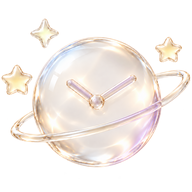
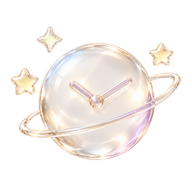
Add files via upload

Changed region(s): [[0.0, 0.0938, 1.0, 0.875], [0.3438, 0.4062, 0.625, 0.5938]]

diff --git a/index.html b/index.html
@@ -3,5 +3,5 @@
 <body><header><button id="calendar-open" aria-label="월간 캘린더"><svg viewBox="0 0 24 24" width="22" height="22" fill="none" stroke="currentColor" stroke-width="1.5" aria-hidden="true"><rect x="3" y="5" width="18" height="16" rx="3"/><path d="M7 3v4M17 3v4M3 10h18"/><path d="M7 14h2M11 14h2M15 14h2M7 17h2M11 17h2"/></svg></button><div class="date-nav"><button id="previous" aria-label="이전 날짜"><svg viewBox="0 0 24 24" fill="none" stroke="currentColor" stroke-width="1.8" stroke-linecap="round" stroke-linejoin="round" aria-hidden="true" focusable="false"><path d="m15 5-7 7 7 7"/></svg></button><button id="date-label"></button><input id="date" type="date" aria-label="날짜 선택"><button id="next" aria-label="다음 날짜"><svg viewBox="0 0 24 24" fill="none" stroke="currentColor" stroke-width="1.8" stroke-linecap="round" stroke-linejoin="round" aria-hidden="true" focusable="false"><path d="m9 5 7 7-7 7"/></svg></button></div><div class="header-actions"><button id="today">오늘</button></div></header><nav class="view-tabs" aria-label="화면 보기" data-view="both"><button id="view-both" class="selected" aria-pressed="true"><svg viewBox="0 0 24 24" fill="none" stroke="currentColor" stroke-width="1.5" aria-hidden="true"><rect x="3" y="4" width="18" height="16" rx="2"/><path d="M11 4v16"/></svg>전체</button><button id="view-tasks" aria-pressed="false"><svg viewBox="0 0 24 24" fill="none" stroke="currentColor" stroke-width="1.5" aria-hidden="true"><path d="m3 7 2 2 3-4M11 7h10M3 14h5M11 14h10M3 20h5M11 20h10"/></svg>할 일</button></nav>
 <main><section class="plan" aria-label="하루 시간표"><div class="plan-title">시간표<button id="add-event" aria-label="일정 추가">＋</button></div><div class="ruler"><div></div><div class="minute-labels"><span>10</span><span>20</span><span>30</span><span>40</span><span>50</span><span>60</span></div></div><div id="timeline"></div></section><section class="study"><div class="tasks-heading"><div class="task-period" aria-label="할 일 보기 기간"><button type="button" id="period-day" aria-pressed="true">일간</button><button type="button" id="period-week" aria-pressed="false">주간</button></div><span>할 일</span><button id="new-group" aria-label="할 일 추가">＋ 추가</button></div><div id="week-overview" hidden><div id="week-days"></div><div id="week-selected-date"></div></div><div class="task-scroll"><div id="groups"></div><button class="add-group" id="group-add">＋ 카테고리 추가</button></div></section>
 </main>
-<dialog id="editor"><form id="form" novalidate><div class="dialog-head"><h2 id="editor-title">할 일 추가</h2><button type="button" id="cancel" aria-label="닫기"><svg viewBox="0 0 24 24" fill="none" stroke="currentColor" stroke-width="2" stroke-linecap="round" aria-hidden="true" focusable="false"><path d="m6 6 12 12M18 6 6 18"/></svg></button></div><label>할 일<input id="task" required maxlength="100"></label><fieldset class="category-field"><legend>카테고리</legend><div id="category-picks"></div><input id="category" type="hidden"></fieldset><label class="inline"><input type="checkbox" id="scheduled"> 시간 설정</label><div class="time-fields"><label>시작<input type="time" id="start" value="15:00"></label><label>종료 (선택)<input type="time" id="end"></label></div><div id="start-picker"><div class="start-picker-heading"><p class="picker-title">시작시간</p><div id="period-picks" class="picker-row"></div></div><div id="hour-picks" class="picker-row hour-picks"></div><div id="minute-picks" class="picker-row"></div><p id="picker-hint"></p></div><div id="time-tools"><div class="time-target"><span>종료시간</span><span id="duration"></span></div><div class="time-increments"><button type="button" data-minutes="1">+1분</button><button type="button" data-minutes="5">+5분</button><button type="button" data-minutes="30">+30분</button><button type="button" data-minutes="60">+1시간</button></div><div class="time-increments time-decrements"><button type="button" data-minutes="-1">−1분</button><button type="button" data-minutes="-5">−5분</button><button type="button" data-minutes="-30">−30분</button><button type="button" data-minutes="-60">−1시간</button></div></div><label class="inline"><input type="checkbox" id="repeating"> 반복 설정</label><div id="repeat-tools" hidden><div class="repeat-heading"><span>반복</span><div class="repeat-toggle"><button type="button" id="repeat-daily" aria-pressed="false">매일</button><button type="button" id="repeat-weekly" aria-pressed="false">매주</button><button type="button" id="repeat-monthly" aria-pressed="false">매달</button></div></div><div id="repeat-days" hidden><button type="button" data-day="1" aria-pressed="false">월</button><button type="button" data-day="2" aria-pressed="false">화</button><button type="button" data-day="3" aria-pressed="false">수</button><button type="button" data-day="4" aria-pressed="false">목</button><button type="button" data-day="5" aria-pressed="false">금</button><button type="button" data-day="6" aria-pressed="false">토</button><button type="button" data-day="0" aria-pressed="false">일</button></div><div id="repeat-month-day-row" hidden><span>날짜</span><div>매월 <input id="repeat-month-day" type="hidden" value="1"><button id="repeat-month-day-button" type="button" aria-label="매월 반복 날짜">1일</button></div></div><div class="repeat-ending"><span>종료</span><input id="repeat-ending" type="hidden" value=""><div class="repeat-toggle"><button type="button" id="repeat-never" aria-pressed="false" disabled>계속 반복</button><button type="button" id="repeat-end-date" aria-pressed="false" disabled>날짜 지정</button></div></div><input id="repeat-until" type="hidden"><button id="repeat-date-button" type="button" aria-label="반복 종료일 선택" hidden><span>날짜 선택</span><svg viewBox="0 0 24 24" fill="none" stroke="currentColor" stroke-width="1.5" aria-hidden="true"><rect x="3" y="5" width="18" height="16" rx="3"/><path d="M7 3v4M17 3v4M3 10h18"/></svg></button><p class="repeat-note">이 항목만 반복돼요. 완료는 날짜마다 따로 기록해요.</p></div><label>메모<textarea id="memo" rows="1"></textarea></label><fieldset class="color-field"><legend>색상</legend><div id="color-picks"></div><input id="color" type="hidden" value="blue"></fieldset><label class="inline"><input type="checkbox" id="done"> 완료</label><p id="error" role="alert"></p><button class="save" type="submit">저장</button><button id="delete" class="delete" type="button">삭제</button></form></dialog>
+<dialog id="editor"><form id="form" novalidate><div class="dialog-head"><h2 id="editor-title">할 일 추가</h2><button type="button" id="cancel" aria-label="닫기"><svg viewBox="0 0 24 24" fill="none" stroke="currentColor" stroke-width="2" stroke-linecap="round" aria-hidden="true" focusable="false"><path d="m6 6 12 12M18 6 6 18"/></svg></button></div><label>할 일<input id="task" required maxlength="100"></label><fieldset class="category-field"><legend>카테고리</legend><div id="category-picks"></div><input id="category" type="hidden"></fieldset><label class="inline"><input type="checkbox" id="scheduled"> 시간 설정</label><div class="time-fields"><label>시작<input type="hidden" id="start"><button type="button" class="time-display" id="start-display" aria-label="시작시간 선택"><span>시간 선택</span><svg viewBox="0 0 24 24" fill="none" stroke="currentColor" stroke-width="1.6" aria-hidden="true"><circle cx="12" cy="12" r="9"/><path d="M12 6v6l4 2"/></svg></button></label><label>종료 (선택)<input type="hidden" id="end"><button type="button" class="time-display" id="end-display" aria-label="종료시간 선택"><span>시간 선택</span><svg viewBox="0 0 24 24" fill="none" stroke="currentColor" stroke-width="1.6" aria-hidden="true"><circle cx="12" cy="12" r="9"/><path d="M12 6v6l4 2"/></svg></button></label></div><div id="start-picker"><div class="start-picker-heading"><p class="picker-title">시작시간</p><div id="period-picks" class="picker-row"></div></div><div id="hour-picks" class="picker-row hour-picks"></div><div id="minute-picks" class="picker-row"></div><p id="picker-hint"></p></div><div id="time-tools"><div class="time-target"><span>종료시간</span><span id="duration"></span></div><div class="time-increments"><button type="button" data-minutes="1">+1분</button><button type="button" data-minutes="5">+5분</button><button type="button" data-minutes="30">+30분</button><button type="button" data-minutes="60">+1시간</button></div><div class="time-increments time-decrements"><button type="button" data-minutes="-1">−1분</button><button type="button" data-minutes="-5">−5분</button><button type="button" data-minutes="-30">−30분</button><button type="button" data-minutes="-60">−1시간</button></div></div><label class="inline"><input type="checkbox" id="repeating"> 반복 설정</label><div id="repeat-tools" hidden><div class="repeat-heading"><span>반복</span><div class="repeat-toggle"><button type="button" id="repeat-daily" aria-pressed="false">매일</button><button type="button" id="repeat-weekly" aria-pressed="false">매주</button><button type="button" id="repeat-monthly" aria-pressed="false">매달</button></div></div><div id="repeat-days" hidden><button type="button" data-day="1" aria-pressed="false">월</button><button type="button" data-day="2" aria-pressed="false">화</button><button type="button" data-day="3" aria-pressed="false">수</button><button type="button" data-day="4" aria-pressed="false">목</button><button type="button" data-day="5" aria-pressed="false">금</button><button type="button" data-day="6" aria-pressed="false">토</button><button type="button" data-day="0" aria-pressed="false">일</button></div><div id="repeat-month-day-row" hidden><span>날짜</span><div>매월 <input id="repeat-month-day" type="hidden" value="1"><button id="repeat-month-day-button" type="button" aria-label="매월 반복 날짜">1일</button></div></div><div class="repeat-ending"><span>종료</span><input id="repeat-ending" type="hidden" value=""><div class="repeat-toggle"><button type="button" id="repeat-never" aria-pressed="false" disabled>계속 반복</button><button type="button" id="repeat-end-date" aria-pressed="false" disabled>날짜 지정</button></div></div><input id="repeat-until" type="hidden"><button id="repeat-date-button" type="button" aria-label="반복 종료일 선택" hidden><span>날짜 선택</span><svg viewBox="0 0 24 24" fill="none" stroke="currentColor" stroke-width="1.5" aria-hidden="true"><rect x="3" y="5" width="18" height="16" rx="3"/><path d="M7 3v4M17 3v4M3 10h18"/></svg></button><p class="repeat-note">이 항목만 반복돼요. 완료는 날짜마다 따로 기록해요.</p></div><label>메모<textarea id="memo" rows="1"></textarea></label><fieldset class="color-field"><legend>색상</legend><div id="color-picks"></div><input id="color" type="hidden" value="blue"></fieldset><label class="inline"><input type="checkbox" id="done"> 완료</label><p id="error" role="alert"></p><button class="save" type="submit">저장</button><button id="delete" class="delete" type="button">삭제</button></form></dialog>
 <dialog id="group-editor"><form id="group-form" novalidate><div class="dialog-head"><h2 id="group-title">카테고리 추가</h2><button type="button" id="group-cancel" aria-label="닫기"><svg viewBox="0 0 24 24" fill="none" stroke="currentColor" stroke-width="2" stroke-linecap="round" aria-hidden="true" focusable="false"><path d="m6 6 12 12M18 6 6 18"/></svg></button></div><label>카테고리 이름<input id="group-name" autofocus required maxlength="30"></label><p id="group-error" class="field-error" role="alert"></p><fieldset class="color-field"><legend>색상</legend><div id="group-color-picks"></div><input id="group-color" type="hidden" value="blue"></fieldset><button class="save" id="group-save">추가</button><button type="button" class="delete" id="group-delete" hidden>카테고리 삭제</button></form></dialog><dialog id="calendar-dialog"><div class="dialog-head"><h2>캘린더</h2><button id="calendar-close" aria-label="캘린더 닫기"><svg viewBox="0 0 24 24" fill="none" stroke="currentColor" stroke-width="2" stroke-linecap="round" aria-hidden="true" focusable="false"><path d="m6 6 12 12M18 6 6 18"/></svg></button></div><div class="calendar-nav"><button id="month-prev" aria-label="이전 달"><svg viewBox="0 0 24 24" fill="none" stroke="currentColor" stroke-width="1.8" stroke-linecap="round" stroke-linejoin="round" aria-hidden="true" focusable="false"><path d="m15 5-7 7 7 7"/></svg></button><strong id="calendar-month"></strong><button id="month-next" aria-label="다음 달"><svg viewBox="0 0 24 24" fill="none" stroke="currentColor" stroke-width="1.8" stroke-linecap="round" stroke-linejoin="round" aria-hidden="true" focusable="false"><path d="m9 5 7 7-7 7"/></svg></button></div><div class="calendar-week"><span>일</span><span>월</span><span>화</span><span>수</span><span>목</span><span>금</span><span>토</span></div><div id="calendar-days"></div></dialog><p id="status" role="status"></p><dialog id="color-spectrum" aria-labelledby="spectrum-title"><div class="dialog-head"><h2 id="spectrum-title">색상 선택</h2><button type="button" id="spectrum-cancel" aria-label="색상 선택 취소"><svg viewBox="0 0 24 24" fill="none" stroke="currentColor" stroke-width="2" stroke-linecap="round" aria-hidden="true" focusable="false"><path d="m6 6 12 12M18 6 6 18"/></svg></button></div><div id="spectrum-square" aria-label="색상 스펙트럼"><i id="spectrum-cursor"></i></div><label class="spectrum-hue-label">색조<input id="spectrum-hue" type="range" min="0" max="359" value="0"></label><div class="spectrum-value"><span id="spectrum-preview"></span><label>색상 코드<input id="spectrum-hex" maxlength="7" value="#ffffff" spellcheck="false"></label></div><button type="button" class="save" id="spectrum-apply">적용</button></dialog><dialog id="month-day-dialog"><div class="dialog-head"><h2>반복 날짜</h2><button type="button" id="month-day-close" aria-label="반복 날짜 닫기"><svg viewBox="0 0 24 24" fill="none" stroke="currentColor" stroke-width="2" stroke-linecap="round" aria-hidden="true"><path d="m6 6 12 12M18 6 6 18"/></svg></button></div><div id="month-day-options"><button type="button" data-date="1">1</button><button type="button" data-date="2">2</button><button type="button" data-date="3">3</button><button type="button" data-date="4">4</button><button type="button" data-date="5">5</button><button type="button" data-date="6">6</button><button type="button" data-date="7">7</button><button type="button" data-date="8">8</button><button type="button" data-date="9">9</button><button type="button" data-date="10">10</button><button type="button" data-date="11">11</button><button type="button" data-date="12">12</button><button type="button" data-date="13">13</button><button type="button" data-date="14">14</button><button type="button" data-date="15">15</button><button type="button" data-date="16">16</button><button type="button" data-date="17">17</button><button type="button" data-date="18">18</button><button type="button" data-date="19">19</button><button type="button" data-date="20">20</button><button type="button" data-date="21">21</button><button type="button" data-date="22">22</button><button type="button" data-date="23">23</button><button type="button" data-date="24">24</button><button type="button" data-date="25">25</button><button type="button" data-date="26">26</button><button type="button" data-date="27">27</button><button type="button" data-date="28">28</button><button type="button" data-date="29">29</button><button type="button" data-date="30">30</button><button type="button" data-date="31">31</button></div></dialog><script src="./app.js"></script></body></html>

diff --git a/app.js b/app.js
@@ -54,13 +54,13 @@ let registration;let updatePending=false;
 if('serviceWorker' in navigator){navigator.serviceWorker.addEventListener('controllerchange',()=>{if(!updatePending){updatePending=true;if(!$('editor').open&&!$('group-editor').open&&!$('calendar-dialog').open)location.reload();else showStatus('새 버전이 준비되었습니다. 편집을 마치면 업데이트됩니다.')}});for(const dialog of document.querySelectorAll('dialog'))dialog.addEventListener('close',()=>{if(updatePending&&!$('editor').open&&!$('group-editor').open&&!$('calendar-dialog').open)location.reload()});addEventListener('load',async()=>{try{registration=await navigator.serviceWorker.register('./sw.js',{updateViaCache:'none'});await registration.update()}catch(e){}});document.addEventListener('visibilitychange',()=>{if(document.visibilityState==='visible'){registration?.update().catch(()=>{});renderTimeline()}})}
 setInterval(()=>{if(document.visibilityState==='visible')renderTimeline()},60000);render();
 
-function updateDuration(){const start=$('start').value,end=$('end').value;if(!start||!end){$('duration').textContent='';return}let amount=mins(end)-mins(start);if(amount<0)amount+=1440;$('duration').textContent=amount>=60?`${Math.floor(amount/60)}시간${amount%60?' '+amount%60+'분':''}`:`${amount}분`}
+function updateDuration(){syncTimeDisplays();const start=$('start').value,end=$('end').value;if(!start||!end){$('duration').textContent='';return}let amount=mins(end)-mins(start);if(amount<0)amount+=1440;$('duration').textContent=amount>=60?`${Math.floor(amount/60)}시간${amount%60?' '+amount%60+'분':''}`:`${amount}분`}
 for(const target of ['start','end'])$(target).addEventListener('input',()=>{$('error').textContent='';updateDuration()});
 for(const button of document.querySelectorAll('[data-minutes]'))button.onclick=()=>{const start=$('start').value;if(!start){$('error').textContent='시작시간을 먼저 입력하세요.';$('start').focus();return}const end=$('end').value;let value=mins(end||start);if(value<300||(end&&value===300))value+=1440;value+=Number(button.dataset.minutes);let startValue=mins(start);if(startValue<300)startValue+=1440;if(value<=startValue){$('error').textContent='종료시간은 시작시간보다 늦어야 합니다.';return}if(value>1740){$('error').textContent='다음 날 오전 5시를 넘길 수 없습니다.';return}$('end').value=time(value);$('error').textContent='';updateDuration()};
 
 let pickedPeriod=null,pickedHour=null,pickedMinute=null;
 function resetStartPicker(){const value=$('start').value;if(value){const [hour,minute]=value.split(':').map(Number);pickedPeriod=hour<12?'am':'pm';pickedHour=hour%12||12;pickedMinute=minute}else{pickedPeriod=new Date().getHours()<12?'am':'pm';pickedHour=pickedMinute=null}renderStartPicker()}
-function renderStartPicker(){const rows=[['period-picks',[['am','오전'],['pm','오후']],pickedPeriod,value=>pickedPeriod=value],['hour-picks',Array.from({length:12},(_,i)=>[i+1,String(i+1)]),pickedHour,value=>{pickedHour=value;pickedMinute=value===null?null:0}],['minute-picks',[0,10,20,30,40,50].map(value=>[value,pad(value)]),pickedMinute,value=>pickedMinute=value]];for(const [id,choices,selected,set] of rows){$(id).innerHTML='';for(const [value,label] of choices){const button=document.createElement('button');button.type='button';button.textContent=label;button.setAttribute('aria-label',id==='period-picks'?label:id==='hour-picks'?label+'시':label+'분');button.setAttribute('aria-pressed',String(selected===value));button.onclick=()=>{set(id==='period-picks'?value:(selected===value?null:value));if(pickedPeriod!==null&&pickedHour!==null&&pickedMinute!==null){const hour=pickedHour%12+(pickedPeriod==='pm'?12:0);$('start').value=time(hour*60+pickedMinute);$('error').textContent='';updateDuration()}else $('start').value='';renderStartPicker()};$(id).append(button)}}const missing=[];if(pickedPeriod===null)missing.push('오전·오후');if(pickedHour===null)missing.push('시');if(pickedMinute===null)missing.push('분');$('picker-hint').textContent=missing.length?missing.join(' → ')+'를 선택하세요.':`시작 ${$('start').value}`}
+function renderStartPicker(){const rows=[['period-picks',[['am','오전'],['pm','오후']],pickedPeriod,value=>pickedPeriod=value],['hour-picks',Array.from({length:12},(_,i)=>[i+1,String(i+1)]),pickedHour,value=>{pickedHour=value;pickedMinute=value===null?null:0}],['minute-picks',[0,10,20,30,40,50].map(value=>[value,pad(value)]),pickedMinute,value=>pickedMinute=value]];for(const [id,choices,selected,set] of rows){$(id).innerHTML='';for(const [value,label] of choices){const button=document.createElement('button');button.type='button';button.textContent=label;button.setAttribute('aria-label',id==='period-picks'?label:id==='hour-picks'?label+'시':label+'분');button.setAttribute('aria-pressed',String(selected===value));button.onclick=()=>{set(id==='period-picks'?value:(selected===value?null:value));if(pickedPeriod!==null&&pickedHour!==null&&pickedMinute!==null){const hour=pickedHour%12+(pickedPeriod==='pm'?12:0);$('start').value=time(hour*60+pickedMinute);$('error').textContent='';updateDuration()}else $('start').value='';syncTimeDisplays();renderStartPicker()};$(id).append(button)}}const missing=[];if(pickedPeriod===null)missing.push('오전·오후');if(pickedHour===null)missing.push('시');if(pickedMinute===null)missing.push('분');$('picker-hint').textContent=missing.length?missing.join(' → ')+'를 선택하세요.':`시작 ${$('start').value}`}
 $('start').addEventListener('input',resetStartPicker);
 
 function renderCategoryPicks(options){const root=$('category-picks');root.innerHTML='';for(const group of [{name:'',label:'없음'},...options]){const button=document.createElement('button');button.type='button';button.textContent=group.label||group.name;if(group.name){const hex=colorValue(group.color);const blend=amount=>'#'+[1,3,5].map(i=>Math.round(255+(parseInt(hex.slice(i,i+2),16)-255)*amount).toString(16).padStart(2,'0')).join('');button.style.background=blend($('category').value===group.name ? .8 : .5)}button.setAttribute('aria-pressed',String($('category').value===group.name));button.onclick=()=>{$('category').value=group.name;renderCategoryPicks(options);syncCategoryColor()};if(group.name&&$('category').value===group.name){const wrap=document.createElement('span');wrap.className='category-edit-wrap';wrap.style.background=button.style.background;const edit=document.createElement('button');edit.type='button';edit.className='category-edit-pencil';edit.innerHTML="<svg xmlns=\"http://www.w3.org/2000/svg\" viewBox=\"0 0 256 256\" fill=\"currentColor\" aria-hidden=\"true\"><path d=\"M227.31,73.37,182.63,28.68a16,16,0,0,0-22.63,0L36.69,152A15.86,15.86,0,0,0,32,163.31V208a16,16,0,0,0,16,16H92.69A15.86,15.86,0,0,0,104,219.31L227.31,96a16,16,0,0,0,0-22.63ZM92.69,208H48V163.31l88-88L180.69,120ZM192,108.68,147.31,64l24-24L216,84.68Z\"/></svg>";edit.setAttribute('aria-label',group.name+' 카테고리 편집');edit.onclick=()=>editGroup(group.name);wrap.append(button,edit);root.append(wrap)}else root.append(button)}const add=document.createElement('button');add.type='button';add.className='category-add';add.textContent='＋';add.setAttribute('aria-label','새 카테고리 추가');add.onclick=()=>addGroup(true);root.append(add)}
@@ -124,3 +124,7 @@ $('month-day-close').onclick=()=>$('month-day-dialog').close();
 document.querySelectorAll('#month-day-options button').forEach(button=>button.onclick=()=>{$('repeat-month-day').value=button.dataset.date;updateMonthDayLabel();$('month-day-dialog').close()});
 
 function toggleRepeatMode(mode){repeatMode($('repeat-'+mode).getAttribute('aria-pressed')==='true'?null:mode)}
+
+function syncTimeDisplays(){for(const id of ['start','end']){const value=$(id).value;let label='시간 선택';if(value){const [h,m]=value.split(':').map(Number);label=`${h<12?'오전':'오후'} ${h%12||12}:${pad(m)}`}$(id+'-display').querySelector('span').textContent=label}}
+$('start-display').onclick=()=>{$('start-picker').scrollIntoView({block:'nearest',behavior:'smooth'});$('hour-picks').querySelector('button')?.focus({preventScroll:true})};
+$('end-display').onclick=()=>{$('time-tools').scrollIntoView({block:'nearest',behavior:'smooth'});$('time-tools').querySelector('button')?.focus({preventScroll:true})};

diff --git a/style.css b/style.css
@@ -379,3 +379,7 @@ input[aria-invalid=true]::placeholder{color:#a66d6d;opacity:1}
 
 .time-fields #start,.time-fields #end{border:1px solid #ccc;border-radius:9px;background:#fff;min-height:36px}
 @media(max-width:400px){.time-fields>label{font-size:12px}.time-fields input[type=time]::-webkit-calendar-picker-indicator{width:13px;flex-basis:13px}}
+
+.time-display{display:flex;align-items:center;justify-content:space-between;gap:4px;width:100%;min-width:0;min-height:36px;margin-top:7px;padding:7px 9px;border:1px solid #ccc;border-radius:9px;background:#fff;font-size:14px;text-align:left;white-space:nowrap}
+.time-display svg{width:16px;height:16px;flex:0 0 16px}
+@media(max-width:400px){.time-display{font-size:13px;padding:7px 6px}.time-display svg{width:14px;height:14px;flex-basis:14px}}

diff --git a/sw.js b/sw.js
@@ -1,4 +1,4 @@
-const CACHE='orbit-v167-20261011';
+const CACHE='orbit-v169-20261011';
 const ASSETS=['./','./index.html','./style.css','./app.js','./manifest.json','./icon-192.png','./icon-512.png','./icon-180.png','./Pretendard-Regular.woff2','./Dovemayo_gothic.woff2'];
 self.addEventListener('install',event=>event.waitUntil(caches.open(CACHE).then(cache=>cache.addAll(ASSETS)).then(()=>self.skipWaiting())));
 self.addEventListener('activate',event=>event.waitUntil(caches.keys().then(keys=>Promise.all(keys.filter(key=>key.startsWith('myday-')&&key!==CACHE).map(key=>caches.delete(key)))).then(()=>self.clients.claim())));
